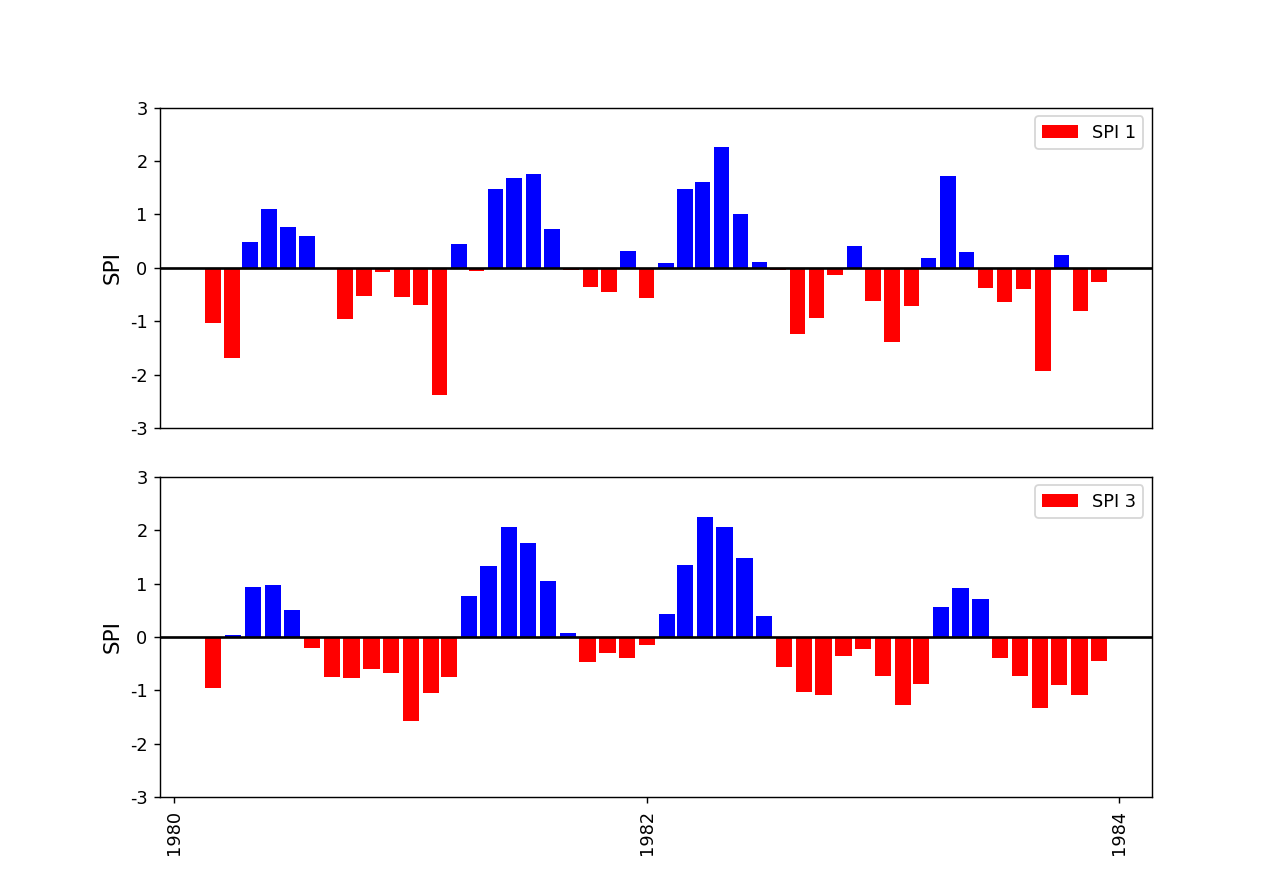
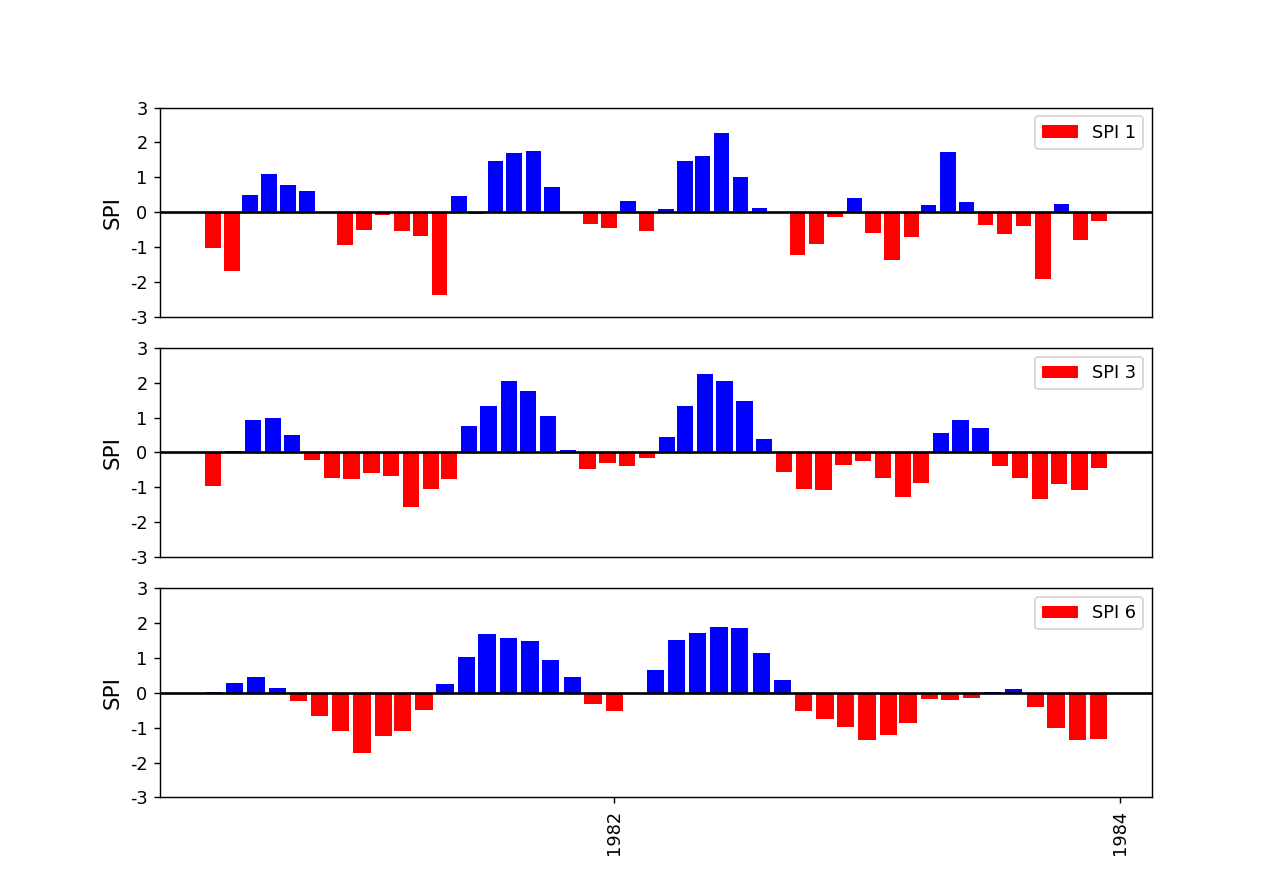
General update.

diff --git a/.src/spi.py b/.src/spi.py
@@ -95,10 +95,10 @@ def year_range_eval(data_time, year_min, year_max):
     return year_min, year_max
 
 # Variables & directories
-ppoi_num = 2  # <<<<<<<< ppoi number to process
+ppoi_num = 1  # <<<<<<<< ppoi number to process
+purge_ppoi_folder = False  # Delete all previous results. Set False if you require run many .nc data sources
 data_path = '../.nc/'
 ppoi_path = '../.ppoi/'+str(ppoi_num)+'/'
-purge_ppoi_folder = True  # Delete all previous results. Set False if you require run many .nc data sources
 if purge_ppoi_folder and os.path.exists(ppoi_path):  # Purge all previous results
     shutil.rmtree(ppoi_path+'spi')
     os.mkdir(ppoi_path + 'spi')
@@ -122,7 +122,7 @@ if not os.path.exists(ppoi_path):  # Create folder structure if not exists
     os.mkdir(ppoi_path+'watershed')
     os.mkdir(ppoi_path+'winddir')
     shutil.copyfile('../.ppoi/1/ppoi.py', ppoi_path+'ppoi.py')  # PPOI #1 contains the parameters template
-sys.path.insert(0,ppoi_path)  # PPOI path insert
+sys.path.insert(0,ppoi_path)  # PPOI path insert and parameters to process
 import ppoi
 nc_file = ppoi.nc_file
 p_max_plot = ppoi.p_max_plot

diff --git a/.ppoi/2/ppoi.py b/.ppoi/2/ppoi.py
@@ -31,7 +31,6 @@ year_max = 1983
 # SPI index mobile average times
 times = [1, 3]
 
-
 # Units conversion multiplier & Maximum value for plotting ramp
 # CRU data uses precipitation in millimeters
 # ERA-5 reanalysis data uses precipitation in meters

diff --git a/.ppoi/1/ppoi.py b/.ppoi/1/ppoi.py
@@ -29,8 +29,7 @@ year_min = 1980
 year_max = 1983
 
 # SPI index mobile average times
-times = [1, 3]
-
+times = [1, 3, 6]
 
 # Units conversion multiplier & Maximum value for plotting ramp
 # CRU data uses precipitation in millimeters

diff --git a/README.md b/README.md
@@ -6,18 +6,16 @@ Data source: https://cds.climate.copernicus.eu/
 
 ## Pending tasks
 
-* Purge last results before a new running
-* General statistics over the data source file .nc and the study zone
-* Global definitions dictionary over a .py file
-* Plot title with datasource information
 * Compress .nc & .csv into .zip files (95MB part files)
+* General statistics over the data source file .nc and the study zone
+* Plot title with datasource information
 * Log record separators in console
 * Rain and evaporation time series over point and polygon. P-E. Graph and table
 * PPOI GeoJson map
 * Gift and video animation for temporal map data
 * Location map, world. Rectangle data source, rectangle study zone, point. See https://docs.xarray.dev/en/stable/user-guide/plotting.html
 * Integrated script for run all the proceses
-* Scientific Markdown report for each PPOI
+* Scientific Markdown report for each PPOI and data source
 * Technical documentation for scientific articles. See https://edo.jrc.ec.europa.eu/documents/factsheets/factsheet_spi_ado.pdf
 
 
@@ -31,11 +29,13 @@ Data source: https://cds.climate.copernicus.eu/
 * SPI calculation over multiple moving window of n months defined by the user
 * Precipitation & SPI yearly maps per month (for a range of accumulation periods). Classification and palette color for SPI Classification following McKee et al. (1993) 
 * Exception control for years outside the available data limit, e.g. the datafile .nc contains values between 1980-2022 and the user set a range between 1970-2022.
-* Research point and study zone over `.ppoi/#/ppoi.py`. Parameters and description over a .py file with client, order #, date and description
+* Research point and polygon `ppoi.py` contains the parameters required for the execution, like description, order #, date and description, data source, point location and polygon limits, year ranges, mobile average times, units conversions multipliers and the maximum values used as references for the map global palettes.
 * Units conversion, e.g. m to mm for rain or evaporation parameters
 * Polygon processing on demand with limits defined by user
 * Point processing on demand with coordinates defined by user
-* Creates PPOI folder structures for new case studies. The file [.ppoi/1/ppoi.py](.ppoi/1/ppoi.py)
+* Creates PPOI folder structures for new case studies. The file [.ppoi/1/ppoi.py](.ppoi/1/ppoi.py) used as template.
+* Purge last results before a new running
+* Global definitions dictionary as spi_dictionary.py
 
 
 ## Searching data from ERA5
